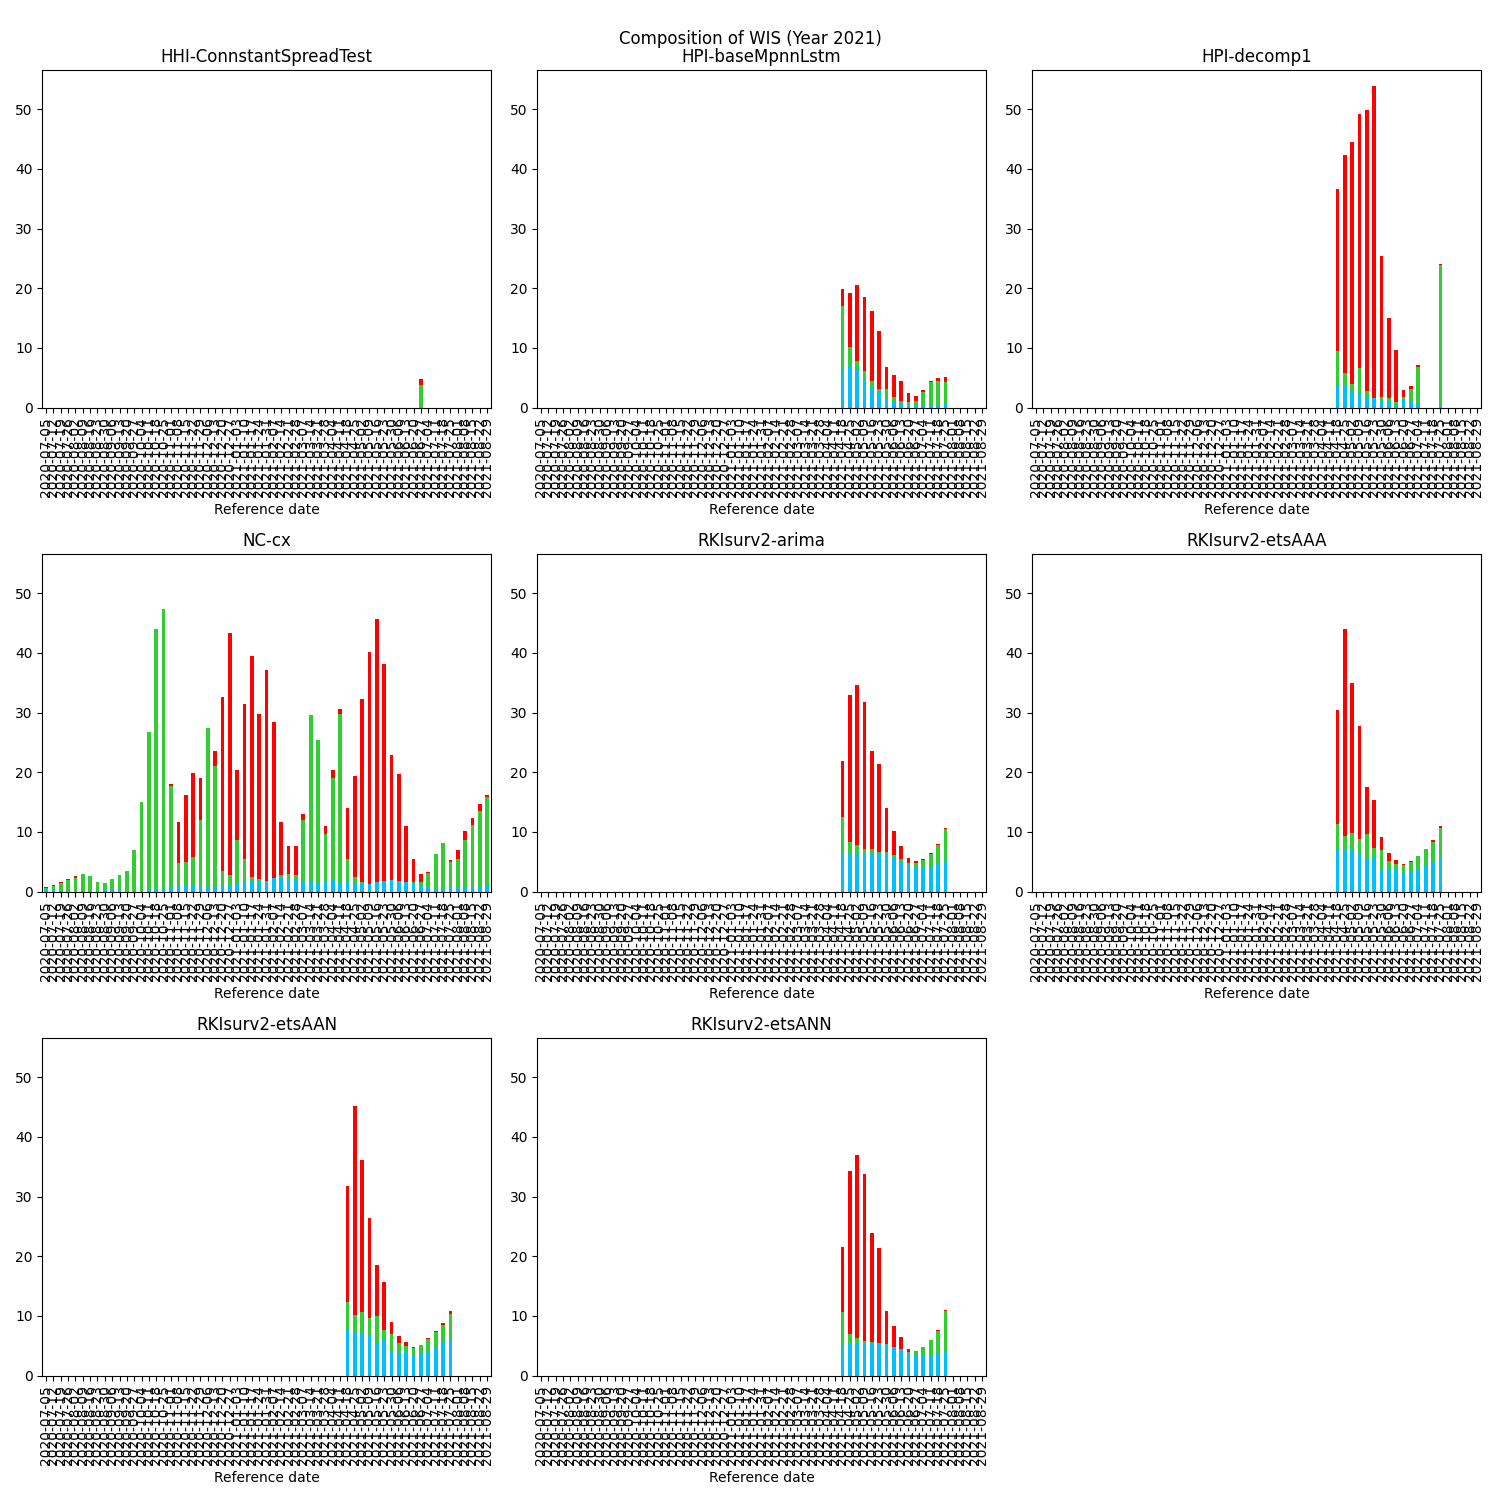
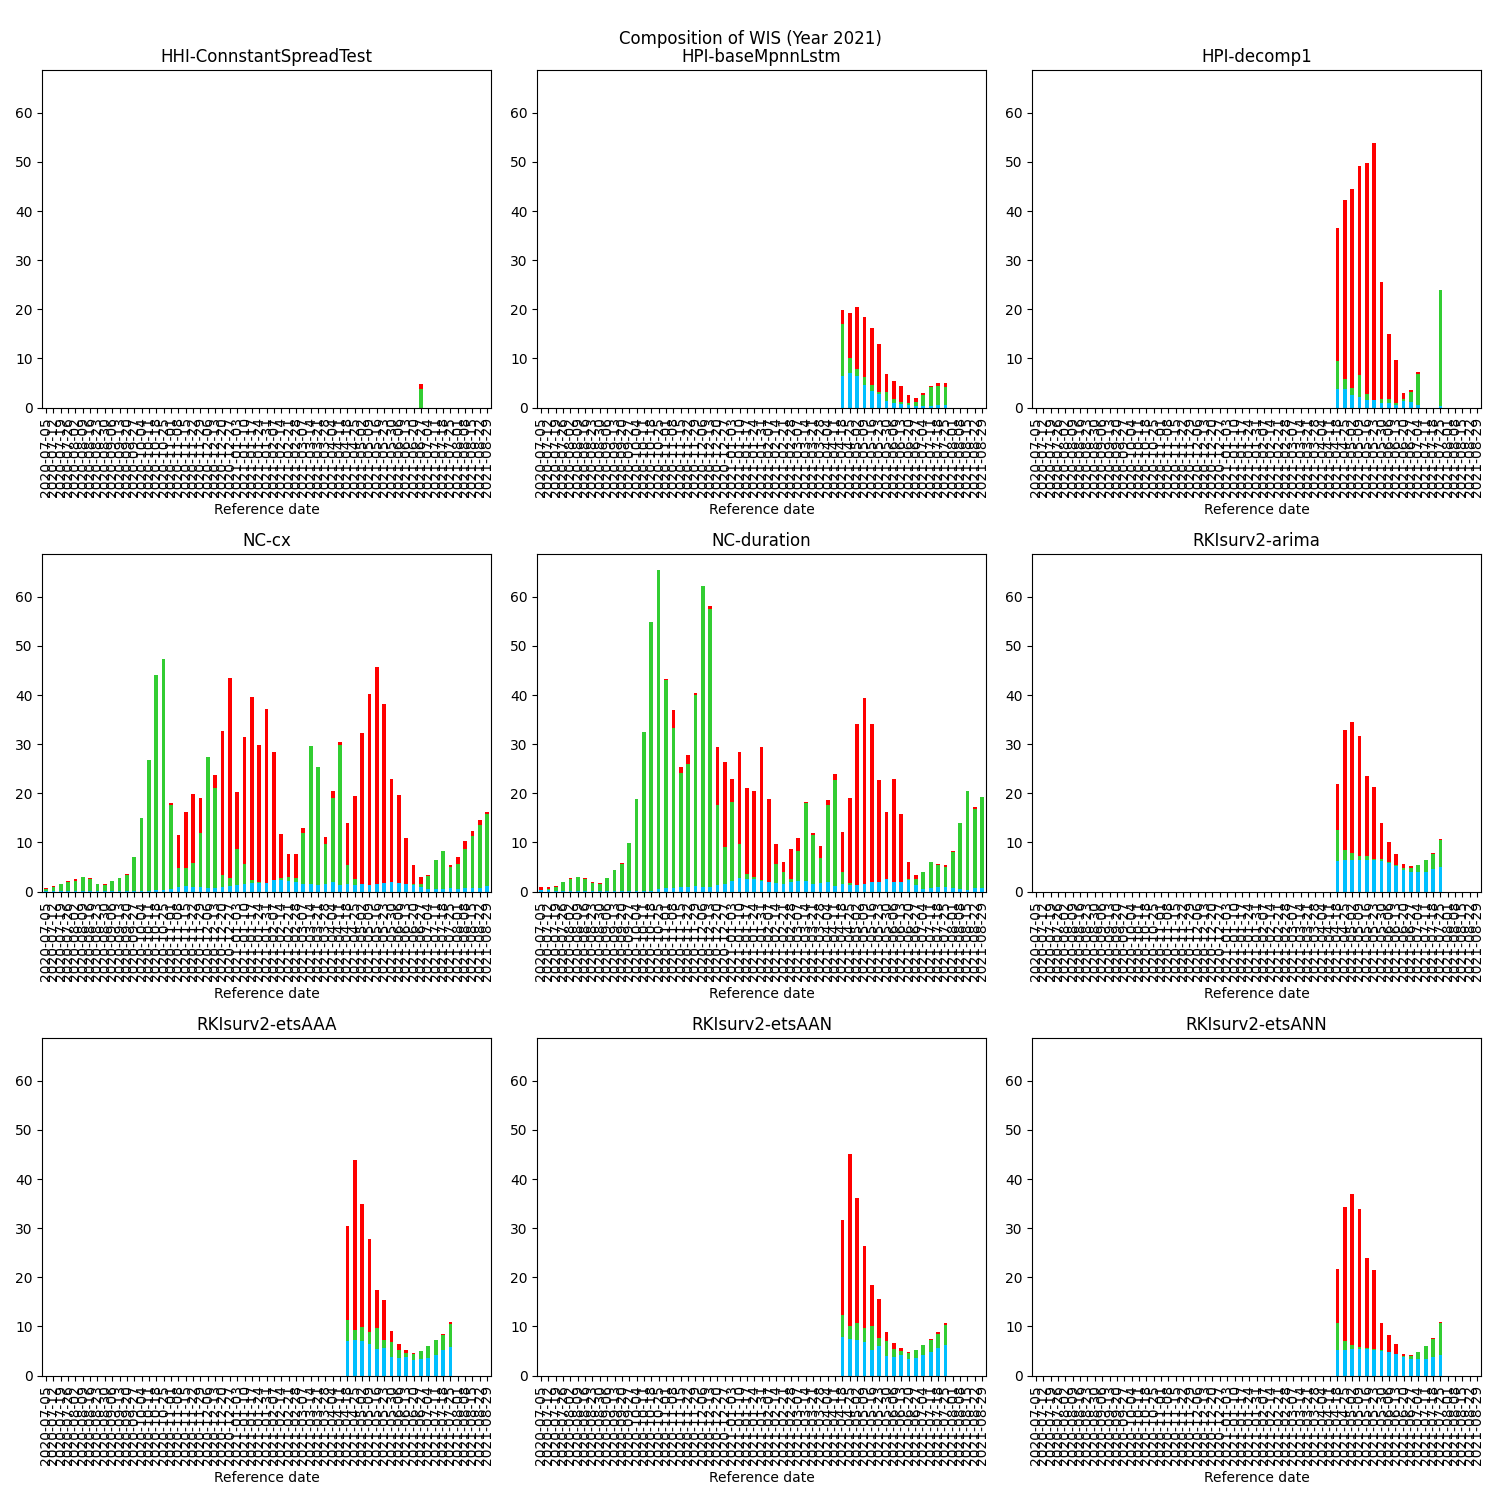
update evaluation report

diff --git a/docs/index.html b/docs/index.html
@@ -14814,6 +14814,15 @@ body {font-family: Arial;}
     </tr>
     <tr>
       <th>5</th>
+      <td>NC-duration</td>
+      <td>28.63 (21.3 - 35.95)</td>
+      <td>19.52 (15.17 - 23.88)</td>
+      <td>35.0 (25.1 - 44.9)</td>
+      <td>47.75 (31.74 - 63.75)</td>
+      <td>nan (/)</td>
+    </tr>
+    <tr>
+      <th>6</th>
       <td>RKIsurv2-arima</td>
       <td>17.58 (10.84 - 24.32)</td>
       <td>14.83 (9.5 - 20.16)</td>
@@ -14822,7 +14831,7 @@ body {font-family: Arial;}
       <td>19.24 (11.75 - 26.72)</td>
     </tr>
     <tr>
-      <th>6</th>
+      <th>7</th>
       <td>RKIsurv2-etsAAA</td>
       <td>16.93 (9.14 - 24.73)</td>
       <td>14.03 (8.06 - 19.99)</td>
@@ -14831,7 +14840,7 @@ body {font-family: Arial;}
       <td>17.88 (9.76 - 26.0)</td>
     </tr>
     <tr>
-      <th>7</th>
+      <th>8</th>
       <td>RKIsurv2-etsAAN</td>
       <td>17.41 (9.53 - 25.3)</td>
       <td>14.35 (8.25 - 20.44)</td>
@@ -14840,7 +14849,7 @@ body {font-family: Arial;}
       <td>18.65 (10.58 - 26.71)</td>
     </tr>
     <tr>
-      <th>8</th>
+      <th>9</th>
       <td>RKIsurv2-etsANN</td>
       <td>17.12 (9.62 - 24.61)</td>
       <td>14.37 (8.58 - 20.15)</td>
@@ -14963,6 +14972,15 @@ body {font-family: Arial;}
     </tr>
     <tr>
       <th>6</th>
+      <td>NC-duration</td>
+      <td>212.95 (171.09 - 254.8)</td>
+      <td>201.43 (161.95 - 240.91)</td>
+      <td>220.18 (173.36 - 267.01)</td>
+      <td>242.91 (177.11 - 308.7)</td>
+      <td>nan (/)</td>
+    </tr>
+    <tr>
+      <th>7</th>
       <td>RKIsurv2-arima</td>
       <td>230.49 (176.47 - 284.52)</td>
       <td>225.22 (178.03 - 272.41)</td>
@@ -14971,7 +14989,7 @@ body {font-family: Arial;}
       <td>209.31 (152.04 - 266.57)</td>
     </tr>
     <tr>
-      <th>7</th>
+      <th>8</th>
       <td>RKIsurv2-etsAAA</td>
       <td>262.25 (205.74 - 318.76)</td>
       <td>272.13 (219.43 - 324.83)</td>
@@ -14980,7 +14998,7 @@ body {font-family: Arial;}
       <td>232.39 (171.51 - 293.28)</td>
     </tr>
     <tr>
-      <th>8</th>
+      <th>9</th>
       <td>RKIsurv2-etsAAN</td>
       <td>264.34 (208.55 - 320.13)</td>
       <td>274.04 (223.11 - 324.97)</td>
@@ -14989,7 +15007,7 @@ body {font-family: Arial;}
       <td>234.44 (174.43 - 294.44)</td>
     </tr>
     <tr>
-      <th>9</th>
+      <th>10</th>
       <td>RKIsurv2-etsANN</td>
       <td>216.59 (168.11 - 265.07)</td>
       <td>203.61 (162.89 - 244.32)</td>
@@ -15144,7 +15162,7 @@ body {font-family: Arial;}
 <div class="jp-OutputArea-child">
 
 <div class="jp-RenderedHTMLCommon jp-RenderedHTML jp-OutputArea-output " data-mime-type="text/html">
-<div class="tabgroup"><div class="tab"><button class="tablinks active" onclick="openTab(event)">HHI-GRUEncDec</button><button class="tablinks" onclick="openTab(event)">RKIsurv2-etsAAN</button><button class="tablinks" onclick="openTab(event)">RKIsurv2-etsANN</button><button class="tablinks" onclick="openTab(event)">NC-cx</button><button class="tablinks" onclick="openTab(event)">HPI-decomp1</button><button class="tablinks" onclick="openTab(event)">RKIsurv2-etsAAA</button><button class="tablinks" onclick="openTab(event)">HPI-baseMpnnLstm</button><button class="tablinks" onclick="openTab(event)">HHI-ConnstantSpreadTest</button></div><div id="HHI-GRUEncDec" class="tabcontent" style="display:block;"><img src="figures/baseline_HHI-GRUEncDec.png" alt="weighted interval score comparison HHI-GRUEncDec" /></div><div id="RKIsurv2-etsAAN" class="tabcontent"><img src="figures/baseline_RKIsurv2-etsAAN.png" alt="weighted interval score comparison RKIsurv2-etsAAN" /></div><div id="RKIsurv2-etsANN" class="tabcontent"><img src="figures/baseline_RKIsurv2-etsANN.png" alt="weighted interval score comparison RKIsurv2-etsANN" /></div><div id="NC-cx" class="tabcontent"><img src="figures/baseline_NC-cx.png" alt="weighted interval score comparison NC-cx" /></div><div id="HPI-decomp1" class="tabcontent"><img src="figures/baseline_HPI-decomp1.png" alt="weighted interval score comparison HPI-decomp1" /></div><div id="RKIsurv2-etsAAA" class="tabcontent"><img src="figures/baseline_RKIsurv2-etsAAA.png" alt="weighted interval score comparison RKIsurv2-etsAAA" /></div><div id="HPI-baseMpnnLstm" class="tabcontent"><img src="figures/baseline_HPI-baseMpnnLstm.png" alt="weighted interval score comparison HPI-baseMpnnLstm" /></div><div id="HHI-ConnstantSpreadTest" class="tabcontent"><img src="figures/baseline_HHI-ConnstantSpreadTest.png" alt="weighted interval score comparison HHI-ConnstantSpreadTest" /></div></div>
+<div class="tabgroup"><div class="tab"><button class="tablinks active" onclick="openTab(event)">HHI-GRUEncDec</button><button class="tablinks" onclick="openTab(event)">RKIsurv2-etsAAN</button><button class="tablinks" onclick="openTab(event)">RKIsurv2-etsANN</button><button class="tablinks" onclick="openTab(event)">NC-cx</button><button class="tablinks" onclick="openTab(event)">HPI-decomp1</button><button class="tablinks" onclick="openTab(event)">RKIsurv2-etsAAA</button><button class="tablinks" onclick="openTab(event)">HPI-baseMpnnLstm</button><button class="tablinks" onclick="openTab(event)">HHI-ConnstantSpreadTest</button><button class="tablinks" onclick="openTab(event)">NC-duration</button></div><div id="HHI-GRUEncDec" class="tabcontent" style="display:block;"><img src="figures/baseline_HHI-GRUEncDec.png" alt="weighted interval score comparison HHI-GRUEncDec" /></div><div id="RKIsurv2-etsAAN" class="tabcontent"><img src="figures/baseline_RKIsurv2-etsAAN.png" alt="weighted interval score comparison RKIsurv2-etsAAN" /></div><div id="RKIsurv2-etsANN" class="tabcontent"><img src="figures/baseline_RKIsurv2-etsANN.png" alt="weighted interval score comparison RKIsurv2-etsANN" /></div><div id="NC-cx" class="tabcontent"><img src="figures/baseline_NC-cx.png" alt="weighted interval score comparison NC-cx" /></div><div id="HPI-decomp1" class="tabcontent"><img src="figures/baseline_HPI-decomp1.png" alt="weighted interval score comparison HPI-decomp1" /></div><div id="RKIsurv2-etsAAA" class="tabcontent"><img src="figures/baseline_RKIsurv2-etsAAA.png" alt="weighted interval score comparison RKIsurv2-etsAAA" /></div><div id="HPI-baseMpnnLstm" class="tabcontent"><img src="figures/baseline_HPI-baseMpnnLstm.png" alt="weighted interval score comparison HPI-baseMpnnLstm" /></div><div id="HHI-ConnstantSpreadTest" class="tabcontent"><img src="figures/baseline_HHI-ConnstantSpreadTest.png" alt="weighted interval score comparison HHI-ConnstantSpreadTest" /></div><div id="NC-duration" class="tabcontent"><img src="figures/baseline_NC-duration.png" alt="weighted interval score comparison NC-duration" /></div></div>
 </div>
 
 </div>
@@ -15334,13 +15352,22 @@ body {font-family: Arial;}
       <th>7</th>
       <td>NC-cx</td>
       <td>183</td>
-      <td>NaN</td>
-      <td>NaN</td>
+      <td>1.539185</td>
+      <td>1.224627</td>
       <td>0.128552</td>
       <td>0.393374</td>
     </tr>
     <tr>
       <th>8</th>
+      <td>NC-duration</td>
+      <td>117</td>
+      <td>1.265811</td>
+      <td>1.130452</td>
+      <td>0.112322</td>
+      <td>0.343981</td>
+    </tr>
+    <tr>
+      <th>9</th>
       <td>RKIsurv2-arima</td>
       <td>145</td>
       <td>1.000000</td>
@@ -15349,7 +15376,7 @@ body {font-family: Arial;}
       <td>0.868758</td>
     </tr>
     <tr>
-      <th>9</th>
+      <th>10</th>
       <td>RKIsurv2-etsAAA</td>
       <td>145</td>
       <td>1.296585</td>
@@ -15358,7 +15385,7 @@ body {font-family: Arial;}
       <td>0.870349</td>
     </tr>
     <tr>
-      <th>10</th>
+      <th>11</th>
       <td>RKIsurv2-etsAAN</td>
       <td>145</td>
       <td>1.532086</td>
@@ -15367,7 +15394,7 @@ body {font-family: Arial;}
       <td>0.874689</td>
     </tr>
     <tr>
-      <th>11</th>
+      <th>12</th>
       <td>RKIsurv2-etsANN</td>
       <td>145</td>
       <td>0.793472</td>
